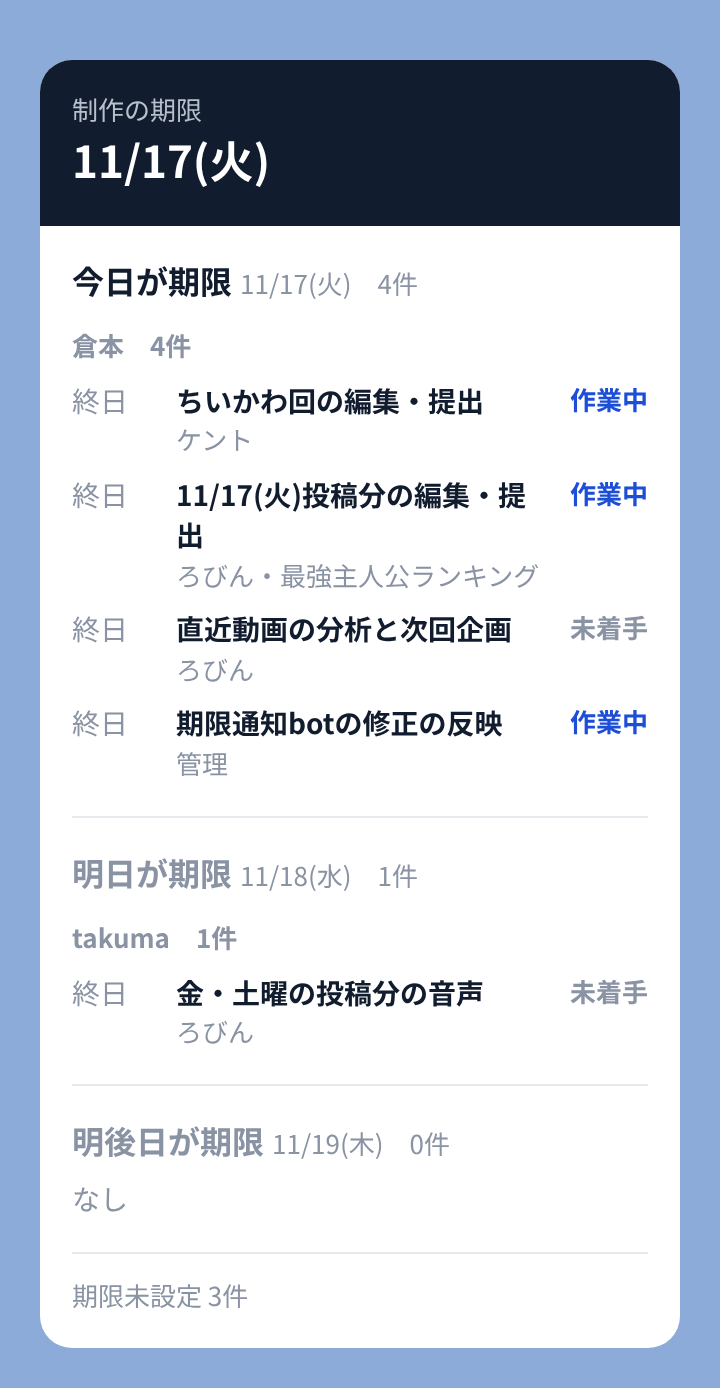
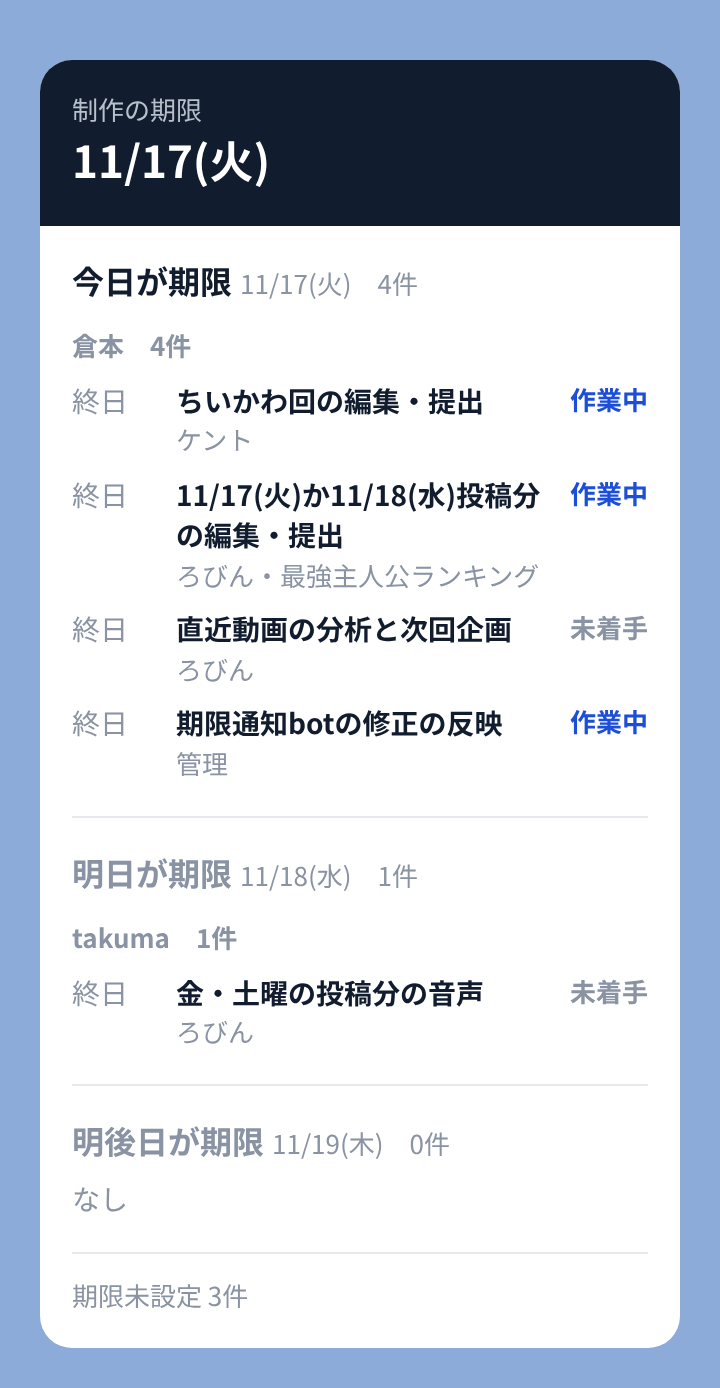
投稿予定日に「火曜か水曜」のような2つの日付を書けるようにする
Claude-Session: https://claude.ai/code/session_01E3h3wpULDjhoV5gFQ19wFG

Changed region(s): [[0.3972, 0.3408, 0.7639, 0.4027], [0.2444, 0.3718, 0.3667, 0.4027]]

diff --git a/test/code.test.js b/test/code.test.js
@@ -183,3 +183,17 @@ test('LINEのコマンドを取り出す', () => {
   assert.equal(gas.extractCommands(JSON.stringify({ events: [{ type: 'join', replyToken: 'r', source: { groupId: g } }] })).length, 0);
   assert.equal(gas.extractCommands('壊れた本文').length, 0);
 });
+
+test('投稿予定日を2つ書ける', () => {
+  const values = [HEADER, row('ろびん', '最強主人公ランキング', '編集・提出', '倉本', '2026/11/17', '', '作業中')];
+  values[1][7] = '2026/11/17か11/18';
+  const t = gas.parseRows(values, '2026-11-17')[0];
+  assert.equal(t.postDate, '2026-11-17');
+  assert.equal(t.postDate2, '2026-11-18');
+  const text = gas.buildMorningMessage([t], '2026-11-17', '');
+  assert.match(text, /ろびん／11\/17\(火\)か11\/18\(水\)投稿分（最強主人公ランキング） 編集・提出/);
+  const card = JSON.stringify(gas.buildFlexMessage([t], '2026-11-17', {}));
+  assert.ok(card.includes('11/17(火)か11/18(水)投稿分の編集・提出'));
+  values[1][7] = '2026/11/17';
+  assert.equal(gas.parseRows(values, '2026-11-17')[0].postDate2, '');
+});
